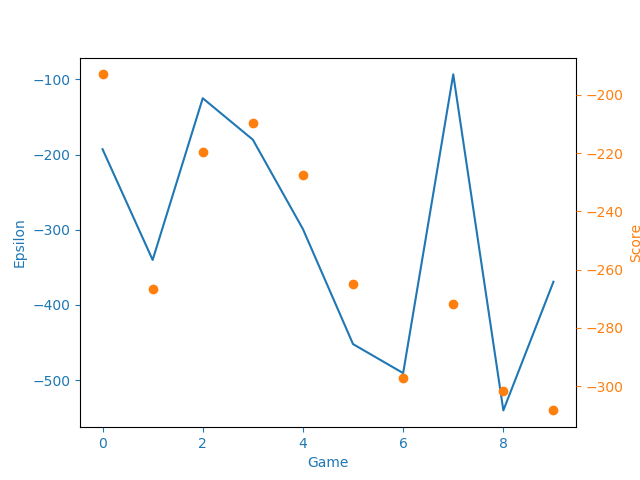
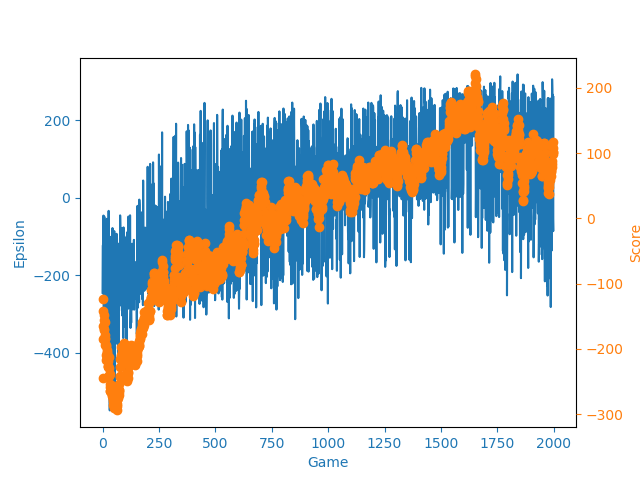
A2C for MountainCarContinuous env
- algo implemented, but this algo doesnt give teh best solution to this problem
- A3C will prolly work better for this

diff --git a/Actor Critics/A2C/MountainCar/utils.py b/Actor Critics/A2C/MountainCar/utils.py
@@ -1,0 +1,118 @@
+import matplotlib.pyplot as plt
+import numpy as np
+import gym
+
+def plotLearning(x, scores, epsilons, filename, lines=None):
+    fig=plt.figure()
+    ax=fig.add_subplot(111, label="1")
+    ax2=fig.add_subplot(111, label="2", frame_on=False)
+
+    ax.plot(x, epsilons, color="C0")
+    ax.set_xlabel("Game", color="C0")
+    ax.set_ylabel("Epsilon", color="C0")
+    ax.tick_params(axis='x', colors="C0")
+    ax.tick_params(axis='y', colors="C0")
+
+    N = len(scores)
+    running_avg = np.empty(N)
+    for t in range(N):
+	    running_avg[t] = np.mean(scores[max(0, t-20):(t+1)])
+
+    ax2.scatter(x, running_avg, color="C1")
+    #ax2.xaxis.tick_top()
+    ax2.axes.get_xaxis().set_visible(False)
+    ax2.yaxis.tick_right()
+    #ax2.set_xlabel('x label 2', color="C1")
+    ax2.set_ylabel('Score', color="C1")
+    #ax2.xaxis.set_label_position('top')
+    ax2.yaxis.set_label_position('right')
+    #ax2.tick_params(axis='x', colors="C1")
+    ax2.tick_params(axis='y', colors="C1")
+
+    if lines is not None:
+        for line in lines:
+            plt.axvline(x=line)
+
+    plt.savefig(filename)
+
+class SkipEnv(gym.Wrapper):
+    def __init__(self, env=None, skip=4):
+        super(SkipEnv, self).__init__(env)
+        self._skip = skip
+
+    def step(self, action):
+        t_reward = 0.0
+        done = False
+        for _ in range(self._skip):
+            obs, reward, done, info = self.env.step(action)
+            t_reward += reward
+            if done:
+                break
+        return obs, t_reward, done, info
+
+    def reset(self):
+        self._obs_buffer = []
+        obs = self.env.reset()
+        self._obs_buffer.append(obs)
+        return obs
+
+class PreProcessFrame(gym.ObservationWrapper):
+    def __init__(self, env=None):
+        super(PreProcessFrame, self).__init__(env)
+        self.observation_space = gym.spaces.Box(low=0, high=255,
+                                                shape=(80,80,1), dtype=np.uint8)
+    def observation(self, obs):
+        return PreProcessFrame.process(obs)
+
+    @staticmethod
+    def process(frame):
+
+        new_frame = np.reshape(frame, frame.shape).astype(np.float32)
+
+        new_frame = 0.299*new_frame[:,:,0] + 0.587*new_frame[:,:,1] + \
+                    0.114*new_frame[:,:,2]
+
+        new_frame = new_frame[35:195:2, ::2].reshape(80,80,1)
+
+        return new_frame.astype(np.uint8)
+
+class MoveImgChannel(gym.ObservationWrapper):
+    def __init__(self, env):
+        super(MoveImgChannel, self).__init__(env)
+        self.observation_space = gym.spaces.Box(low=0.0, high=1.0,
+                            shape=(self.observation_space.shape[-1],
+                                   self.observation_space.shape[0],
+                                   self.observation_space.shape[1]),
+                            dtype=np.float32)
+
+    def observation(self, observation):
+        return np.moveaxis(observation, 2, 0)
+
+class ScaleFrame(gym.ObservationWrapper):
+    def observation(self, obs):
+        return np.array(obs).astype(np.float32) / 255.0
+
+class BufferWrapper(gym.ObservationWrapper):
+    def __init__(self, env, n_steps):
+        super(BufferWrapper, self).__init__(env)
+        self.observation_space = gym.spaces.Box(
+                             env.observation_space.low.repeat(n_steps, axis=0),
+                             env.observation_space.high.repeat(n_steps, axis=0),
+                             dtype=np.float32)
+
+    def reset(self):
+        self.buffer = np.zeros_like(self.observation_space.low, dtype=np.float32)
+        return self.observation(self.env.reset())
+
+    def observation(self, observation):
+        self.buffer[:-1] = self.buffer[1:]
+        self.buffer[-1] = observation
+        return self.buffer
+
+def make_env(env_name):
+    env = gym.make(env_name)
+    env = SkipEnv(env)
+    env = PreProcessFrame(env)
+    env = MoveImgChannel(env)
+    env = BufferWrapper(env, 4)
+    return ScaleFrame(env)

diff --git a/Actor Critics/A2C/MountainCar/AC_continuous_model.py b/Actor Critics/A2C/MountainCar/AC_continuous_model.py
@@ -1,0 +1,76 @@
+import torch
+import torch.nn as nn
+import torch.nn.functional as F
+import torch.optim as optim
+import numpy as np
+
+class GenericNetwork(nn.Module):
+    def __init__(self, lr, input_dims, fc1_dims, fc2_dims, n_actions):
+        super(GenericNetwork, self).__init__()
+
+        self.lr = lr
+        self.input_dims = input_dims
+        self.fc1_dims = fc1_dims
+        self.fc2_dims = fc2_dims
+        self.n_actions = n_actions
+
+        self.fc1 = nn.Linear(*self.input_dims, self.fc1_dims)
+        self.fc2 = nn.Linear(self.fc1_dims, self.fc2_dims)
+        self.fc3 = nn.Linear(self.fc2_dims, self.n_actions)
+
+        self.optimizer = optim.Adam(self.parameters(), lr=self.lr)
+        self.device = torch.device('cuda:0' if torch.cuda.is_available() else 'cpu')
+        self.to(self.device)
+
+    def forward(self, obs):
+        state = torch.tensor(obs, dtype=torch.float).to(self.device)
+        x = F.relu(self.fc1(state))
+        x = F.relu(self.fc2(x))
+        x = self.fc3(x)
+
+        return x
+    
+class Agent(object):
+    # COntinuous mountain car problem
+    def __init__(self, alpha, beta, input_dims, gamma=0.99, n_actions=2, layer1_size=64, layer2_size=64, n_outputs=1):
+        self.gamma = gamma
+        self.log_probs = None
+        self.n_outputs = n_outputs
+        
+        self.actor = GenericNetwork(alpha, input_dims, layer1_size, layer2_size, n_actions=n_actions)
+        self.critic = GenericNetwork(beta, input_dims, layer1_size, layer2_size, n_actions=1)
+    
+    def choose_action(self, obs):
+        mu, sigma = self.actor.forward(obs)
+        sigma = torch.exp(sigma)
+        action_probs = torch.distributions.Normal(mu, sigma)
+        probs = action_probs.sample(sample_shape=torch.Size([self.n_outputs]))
+        self.log_probs = action_probs.log_prob(probs).to(self.actor.device)
+        # Bounding from -1 to +1
+        action = torch.tanh(probs)
+
+        return action.item()
+
+    # Learning is through temporal difference: learns at every time step using old state and new state and reward
+    # Using replay buffer may improve performance
+
+    def learn(self, state, reward, new_state, done):
+        self.actor.optimizer.zero_grad()
+        self.critic.optimizer.zero_grad()
+
+        critic_value = self.critic.forward(new_state)
+        critic_value_ = self.critic.forward(state)
+
+        reward = torch.tensor(reward, dtype=torch.float).to(self.actor.device)
+        delta = reward + self.gamma * critic_value_ * (1-int(done)) - critic_value
+
+        actor_loss =  -self.log_probs * delta
+        critic_loss = delta ** 2
+
+        (actor_loss+critic_loss).backward()
+        self.actor.optimizer.step()
+        self.critic.optimizer.step()
+        
+
+
+        

diff --git a/Actor Critics/A2C/MountainCar/MountainCar.py b/Actor Critics/A2C/MountainCar/MountainCar.py
@@ -1,32 +1,28 @@
 import numpy as np
 import gym
-from AC_discrete_model import Agent
-import matplotlib.pyplot as plt
+from AC_continuous_model import Agent
 from utils import plotLearning
-from gym import wrappers
 
-agent = Agent(alpha=1e-5, input_dims=[8], gamma=0.99, n_actions=4, layer1_size=2048, layer2_size=512)
+agent = Agent(alpha=5e-6, beta=1e-5, input_dims=[2], gamma=0.99,
+              layer1_size=256, layer2_size=256)
 
-env = gym.make('LunarLander-v2')
-num_episodes = 2000
+env = gym.make('MountainCarContinuous-v0')
 score_history = []
+num_episodes = 30
 
 for i in range(num_episodes):
     done = False
-    obs = env.reset()
     score = 0
+    obs = env.reset()
     while not done:
-        action = agent.choose_action(obs)
+        action = np.array(agent.choose_action(obs)).reshape((1,))
         obs_, reward, done, info = env.step(action)
         agent.learn(obs, reward, obs_, done)
         obs = obs_
         score += reward
         env.render()
-
     score_history.append(score)
     print('episode ', i, 'score %.2f' % score)
-
-filename = 'lunar_lander_discrete.png'
+filename = 'mountaincar-continuous.png'
 x = [i for i in range(num_episodes)]
 plotLearning(x, score_history, score_history, filename)
-

diff --git a/Actor Critics/A3C/LunarLander/AC_discrete_model.py b/Actor Critics/A3C/LunarLander/AC_discrete_model.py
@@ -57,6 +57,8 @@ class Agent(object):
 
         actor_loss = -self.log_probs * delta
         critic_loss = (delta) ** 2
-
+        # print("Actor loss: ", actor_loss)
+        # print("Critic Loss: ", critic_loss)
+        # print("Total loss: ", actor_loss + critic_loss)
         (actor_loss+critic_loss).backward()
         self.actor_critic.optimizer.step()

diff --git a/DDPG/model.py b/DDPG/model.py
@@ -1,0 +1,10 @@
+import torch
+import torch.nn as nn
+import torch.nn.functional as F
+import torch.optim as optim
+import numpy as np
+
+class DDPGNet(nn.Module):
+    def __init__(self):
+        super(DDPGNet, self).__init__()
+        
